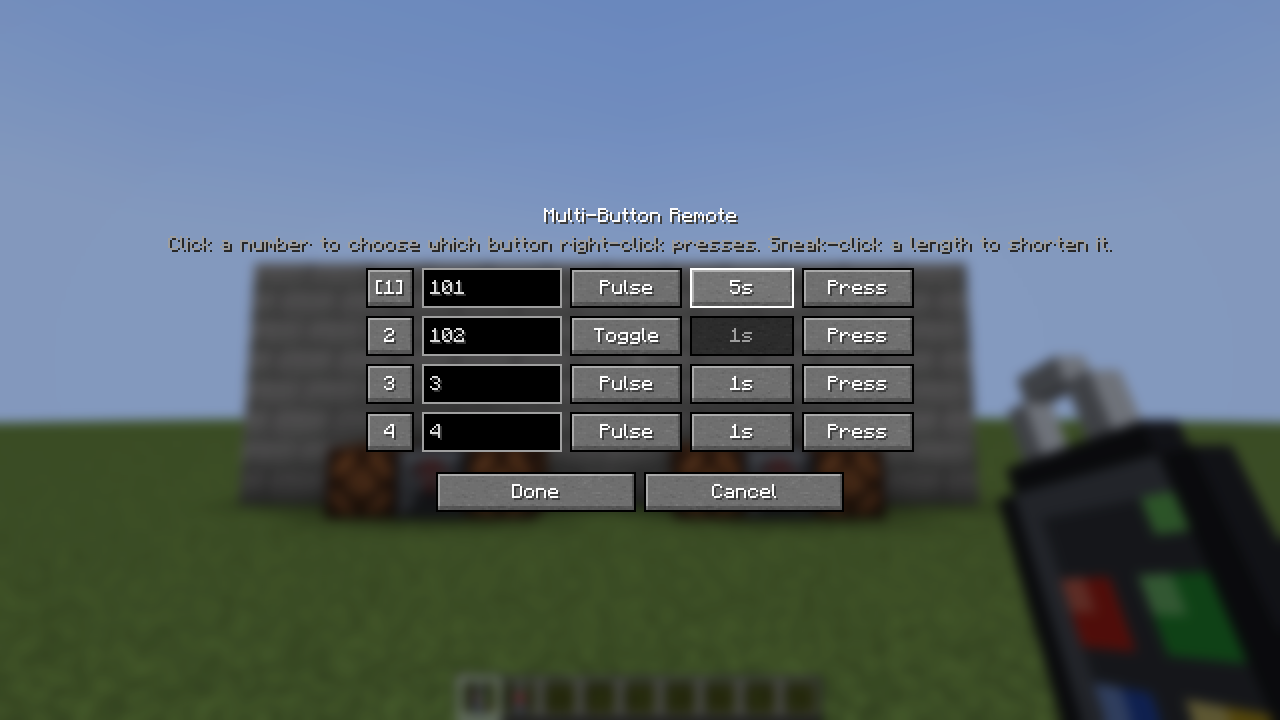
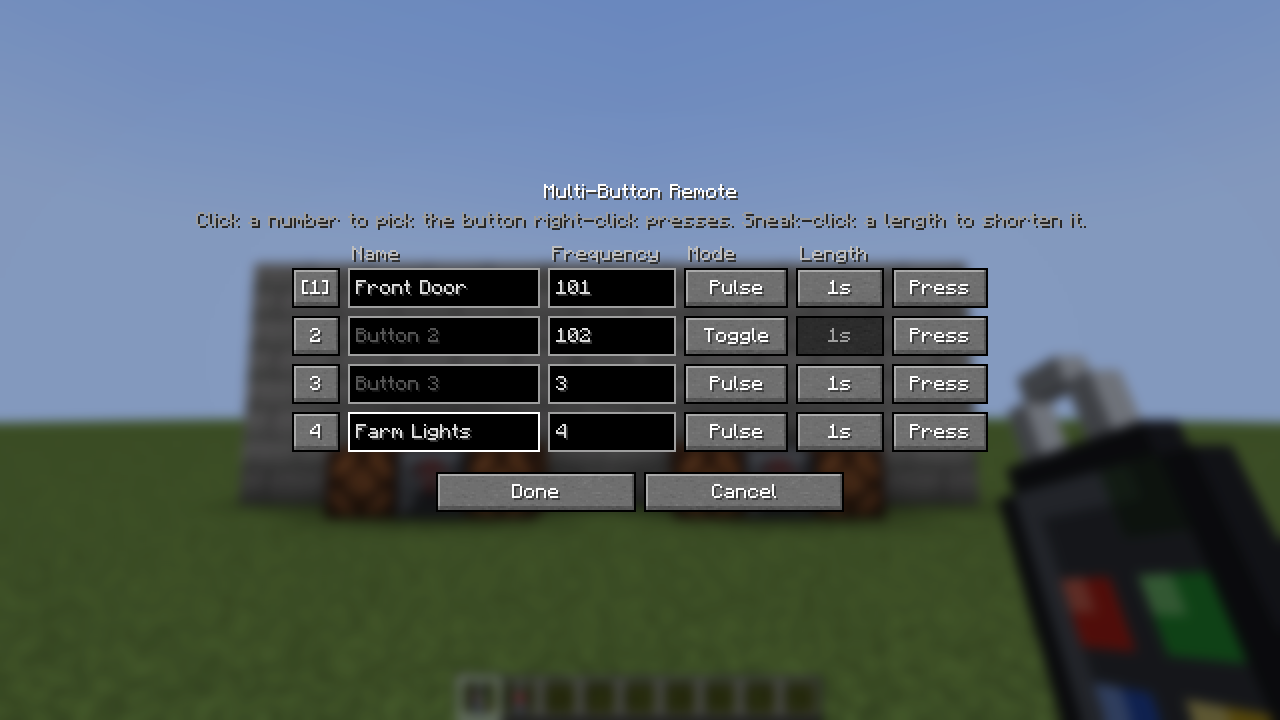
Add button names to the Multi-Button Remote (v0.9.0)
Each button can have a name of up to 24 characters, like "Front Door". It
shows in the tooltip, press and selection messages, and the copy message.
Unnamed buttons show as "Button N". The keypad gains a Name column (with
"Button N" placeholders) and column headings.

Names are an optional field in saved data, so older remotes load unnamed.
They're cleaned in the record constructor (no colour codes or control
characters, trimmed, capped) and synced with the rest of the button.

Four new GameTests (cleaning, labels, save/sync including the old format,
copying keeps the name). README, design notes and screenshots updated.

Claude-Session: https://claude.ai/code/session_01UW3Tnrvvec4MPvc8LgVniH

Changed region(s): [[0.125, 0.2444, 0.875, 0.6417], [0.875, 0.6417, 0.9375, 0.7639]]

diff --git a/src/main/java/com/reiko/signaltower/gametest/SignalTowerGameTests.java b/src/main/java/com/reiko/signaltower/gametest/SignalTowerGameTests.java
@@ -38,6 +38,10 @@ import net.neoforged.neoforge.gametest.PrefixGameTestTemplate;
 
 import java.util.List;
 
+import com.mojang.serialization.JsonOps;
+import io.netty.buffer.Unpooled;
+import net.minecraft.network.chat.contents.TranslatableContents;
+
 /**
  * Automated in-game tests. Run them with {@code ./gradlew runGameTestServer}.
  * They only load in dev runs, where {@code neoforge.enabledGameTestNamespaces} includes this mod.
@@ -738,5 +742,74 @@ public final class SignalTowerGameTests {
                 .thenExecute(() -> pressRemote(helper, player))
                 .thenExecute(() -> assertLight(helper, player, false))
                 .thenSucceed();
+    }
+
+    // ---- Button names ----
+
+    /** Names lose colour codes, control characters and surrounding spaces, and are cut to 24 characters. */
+    @GameTest(template = PLATFORM)
+    public static void buttonNamesAreCleaned(GameTestHelper helper) {
+        String cleaned = RemoteButtons.cleanName("  \u00a7cFront\tDoor  ");
+        check(!cleaned.contains("\u00a7"), "Colour codes should be removed, got '" + cleaned + "'");
+        check(!cleaned.contains("\t"), "Control characters should be removed, got '" + cleaned + "'");
+        check(!cleaned.startsWith(" ") && !cleaned.endsWith(" "), "Spaces around the name should go, got '" + cleaned + "'");
+        check(RemoteButtons.cleanName("A very long name for a remote button indeed").length() <= RemoteButtons.MAX_NAME_LENGTH,
+                "Names should be cut to " + RemoteButtons.MAX_NAME_LENGTH + " characters");
+        check(RemoteButtons.cleanName(null).isEmpty(), "A missing name should become empty");
+        check(new RemoteButtons.Button(1, false, 20, "   ").name().isEmpty(), "A blank name means unnamed");
+        helper.succeed();
+    }
+
+    /** A named button shows its name; an unnamed one shows "Button N". */
+    @GameTest(template = PLATFORM)
+    public static void buttonLabelsUseNames(GameTestHelper helper) {
+        check(new RemoteButtons.Button(1, false, 20, "Front Door").label(0).getString().equals("Front Door"),
+                "A named button should be labelled with its name");
+        var unnamed = new RemoteButtons.Button(1, false).label(1);
+        check(unnamed.getContents() instanceof TranslatableContents t
+                        && t.getKey().endsWith(".remote_button_default_name") && Integer.valueOf(2).equals(t.getArgs()[0]),
+                "An unnamed second button should be labelled 'Button 2'");
+        helper.succeed();
+    }
+
+    /** Names survive saving and network sync, and remotes saved before names existed still load. */
+    @GameTest(template = PLATFORM)
+    public static void buttonNamesSurviveSaveAndSync(GameTestHelper helper) {
+        RemoteButtons original = RemoteButtons.DEFAULT
+                .withButton(0, new RemoteButtons.Button(101, false, 10, "Front Door"))
+                .withButton(3, new RemoteButtons.Button(404, true, 20, "Farm Lights"))
+                .withSelected(3);
+
+        var saved = RemoteButtons.CODEC.encodeStart(JsonOps.INSTANCE, original).getOrThrow();
+        RemoteButtons loaded = RemoteButtons.CODEC.parse(JsonOps.INSTANCE, saved).getOrThrow();
+        check(loaded.equals(original), "Saving and loading changed the buttons: " + loaded);
+
+        var buffer = Unpooled.buffer();
+        RemoteButtons.STREAM_CODEC.encode(buffer, original);
+        RemoteButtons synced = RemoteButtons.STREAM_CODEC.decode(buffer);
+        check(synced.equals(original), "Network sync changed the buttons: " + synced);
+
+        var oldFormat = com.google.gson.JsonParser.parseString(
+                "{\"buttons\":[{\"frequency\":7},{\"frequency\":8,\"toggle\":true}],\"selected\":1}");
+        RemoteButtons old = RemoteButtons.CODEC.parse(JsonOps.INSTANCE, oldFormat).getOrThrow();
+        check(old.button(0).frequency() == 7 && old.button(0).name().isEmpty(), "Old remotes should load with unnamed buttons");
+        check(old.button(1).toggle() && old.selected() == 1, "Old remotes should keep their settings");
+        helper.succeed();
+    }
+
+    /** Copying a frequency into a named button keeps its name. */
+    @GameTest(template = PLATFORM)
+    public static void copyingFrequencyKeepsButtonName(GameTestHelper helper) {
+        BlockPos tx = new BlockPos(3, 1, 1);
+        place(helper, tx, ModRegistry.RADIO_TRANSMITTER.get(), 888);
+        Player player = playerWithMultiRemote(helper, RemoteButtons.DEFAULT
+                .withButton(1, new RemoteButtons.Button(2, false, 20, "Garage")).withSelected(1));
+        player.setShiftKeyDown(true);
+        useTunerOn(helper, player, tx);
+
+        RemoteButtons.Button button = MultiRemoteItem.getButtons(player.getMainHandItem()).button(1);
+        check(button.frequency() == 888, "Frequency should be copied, got " + button.frequency());
+        check(button.name().equals("Garage"), "The name should be kept, got '" + button.name() + "'");
+        helper.succeed();
     }
 }

diff --git a/src/main/java/com/reiko/signaltower/client/MultiRemoteScreen.java b/src/main/java/com/reiko/signaltower/client/MultiRemoteScreen.java
@@ -17,12 +17,13 @@ import net.neoforged.neoforge.network.PacketDistributor;
 
 /**
  * The Multi-Button Remote's keypad. Each row is one button: click its number to make it the one
- * right-click presses, type its frequency, switch its mode, set its pulse length (click for longer,
- * sneak-click for shorter), or press it right now. Pressing also saves the settings. Done saves
+ * right-click presses, give it a name, type its frequency, switch its mode, set its pulse length
+ * (click for longer, sneak-click for shorter), or press it right now. Pressing also saves the settings. Done saves
  * and closes, Cancel throws away unsaved edits.
  */
 public class MultiRemoteScreen extends Screen {
     private static final String KEY = "screen." + SignalTower.MOD_ID + ".multi_remote";
+    private static final int COLUMNS_WIDTH = 348;
 
     private final InteractionHand hand;
     private RemoteButtons buttons;
@@ -41,8 +42,8 @@ public class MultiRemoteScreen extends Screen {
         int centerX = width / 2;
         int top = height / 2 - 46;
 
-        // Columns: [#] [frequency] [mode] [pulse length] [Press], 274 wide in total.
-        int left = centerX - 137;
+        // Columns: [#] [name] [frequency] [mode] [pulse length] [Press], 348 wide in total.
+        int left = centerX - COLUMNS_WIDTH / 2;
         for (int i = 0; i < RemoteButtons.COUNT; i++) {
             final int index = i;
             int y = top + i * 24;
@@ -52,7 +53,14 @@ public class MultiRemoteScreen extends Screen {
                 refreshLabels();
             }).bounds(left, y, 24, 20).build());
 
-            EditBox box = new EditBox(font, left + 28, y, 70, 20, Component.translatable(KEY + ".frequency", i + 1));
+            EditBox nameBox = new EditBox(font, left + 28, y, 96, 20, Component.translatable(KEY + ".name", i + 1));
+            nameBox.setMaxLength(RemoteButtons.MAX_NAME_LENGTH);
+            nameBox.setValue(buttons.button(i).name());
+            nameBox.setHint(buttons.button(i).withName("").label(i).copy().withStyle(net.minecraft.ChatFormatting.DARK_GRAY));
+            nameBox.setResponder(text -> buttons = buttons.withButton(index, buttons.button(index).withName(text)));
+            addRenderableWidget(nameBox);
+
+            EditBox box = new EditBox(font, left + 128, y, 64, 20, Component.translatable(KEY + ".frequency", i + 1));
             box.setMaxLength(Frequency.MAX_DIGITS);
             box.setFilter(text -> text.chars().allMatch(Character::isDigit));
             box.setValue(Integer.toString(buttons.button(i).frequency()));
@@ -70,16 +78,16 @@ public class MultiRemoteScreen extends Screen {
                 RemoteButtons.Button old = buttons.button(index);
                 buttons = buttons.withButton(index, old.withToggle(!old.toggle()));
                 refreshLabels();
-            }).bounds(left + 102, y, 56, 20).build());
+            }).bounds(left + 196, y, 52, 20).build());
 
             lengthButtons[i] = addRenderableWidget(Button.builder(Component.empty(), b -> {
                 RemoteButtons.Button old = buttons.button(index);
                 buttons = buttons.withButton(index, old.withPulseTicks(PulseLength.next(old.pulseTicks(), Screen.hasShiftDown())));
                 refreshLabels();
-            }).bounds(left + 162, y, 52, 20).build());
+            }).bounds(left + 252, y, 44, 20).build());
 
             addRenderableWidget(Button.builder(Component.translatable(KEY + ".press"), b -> send(index))
-                    .bounds(left + 218, y, 56, 20).build());
+                    .bounds(left + 300, y, 48, 20).build());
         }
         refreshLabels();
 
@@ -117,8 +125,15 @@ public class MultiRemoteScreen extends Screen {
         super.render(graphics, mouseX, mouseY, partialTick);
         int centerX = width / 2;
         int top = height / 2 - 46;
-        graphics.drawCenteredString(font, title, centerX, top - 30, 0xFFFFFF);
-        graphics.drawCenteredString(font, Component.translatable(KEY + ".hint"), centerX, top - 16, 0xA0A0A0);
+        graphics.drawCenteredString(font, title, centerX, top - 42, 0xFFFFFF);
+        graphics.drawCenteredString(font, Component.translatable(KEY + ".hint"), centerX, top - 28, 0xA0A0A0);
+        // Column headings
+        int left = centerX - COLUMNS_WIDTH / 2;
+        int headingY = top - 11;
+        graphics.drawString(font, Component.translatable(KEY + ".heading_name"), left + 30, headingY, 0xC0C0C0);
+        graphics.drawString(font, Component.translatable(KEY + ".heading_frequency"), left + 130, headingY, 0xC0C0C0);
+        graphics.drawString(font, Component.translatable(KEY + ".heading_mode"), left + 198, headingY, 0xC0C0C0);
+        graphics.drawString(font, Component.translatable(KEY + ".heading_length"), left + 254, headingY, 0xC0C0C0);
     }
 
     @Override

diff --git a/src/main/java/com/reiko/signaltower/item/RemoteButtons.java b/src/main/java/com/reiko/signaltower/item/RemoteButtons.java
@@ -2,10 +2,13 @@ package com.reiko.signaltower.item;
 
 import com.mojang.serialization.Codec;
 import com.mojang.serialization.codecs.RecordCodecBuilder;
+import com.reiko.signaltower.SignalTower;
 import com.reiko.signaltower.radio.Frequency;
 import io.netty.buffer.ByteBuf;
 import net.minecraft.network.codec.ByteBufCodecs;
+import net.minecraft.network.chat.Component;
 import net.minecraft.network.codec.StreamCodec;
+import net.minecraft.util.StringUtil;
 
 import java.util.ArrayList;
 import java.util.List;
@@ -17,44 +20,78 @@ import java.util.List;
 public record RemoteButtons(List<Button> buttons, int selected) {
     public static final int COUNT = 4;
 
+    /** Longest button name. */
+    public static final int MAX_NAME_LENGTH = 24;
+
     /**
-     * One button: a frequency, whether it toggles (true) or pulses (false), and how long its pulse
-     * lasts in ticks.
+     * One button: a frequency, whether it toggles (true) or pulses (false), how long its pulse lasts
+     * in ticks, and an optional name ("" means unnamed, shown as "Button 1" etc).
      */
-    public record Button(int frequency, boolean toggle, int pulseTicks) {
+    public record Button(int frequency, boolean toggle, int pulseTicks, String name) {
         public static final Codec<Button> CODEC = RecordCodecBuilder.create(instance -> instance.group(
                 Codec.intRange(Frequency.MIN, Frequency.MAX).fieldOf("frequency").forGetter(Button::frequency),
                 Codec.BOOL.optionalFieldOf("toggle", false).forGetter(Button::toggle),
-                Codec.INT.optionalFieldOf("pulse_ticks", PulseLength.DEFAULT_TICKS).forGetter(Button::pulseTicks)
+                Codec.INT.optionalFieldOf("pulse_ticks", PulseLength.DEFAULT_TICKS).forGetter(Button::pulseTicks),
+                Codec.STRING.optionalFieldOf("name", "").forGetter(Button::name)
         ).apply(instance, Button::new));
 
         public static final StreamCodec<ByteBuf, Button> STREAM_CODEC = StreamCodec.composite(
                 ByteBufCodecs.VAR_INT, Button::frequency,
                 ByteBufCodecs.BOOL, Button::toggle,
                 ByteBufCodecs.VAR_INT, Button::pulseTicks,
+                ByteBufCodecs.stringUtf8(MAX_NAME_LENGTH * 4), Button::name,
                 Button::new);
 
         public Button {
             frequency = Frequency.clamp(frequency);
             pulseTicks = PulseLength.clamp(pulseTicks);
+            name = cleanName(name);
         }
 
-        /** A button with the default 1-second pulse. */
+        /** A button with the default 1-second pulse and no name. */
         public Button(int frequency, boolean toggle) {
-            this(frequency, toggle, PulseLength.DEFAULT_TICKS);
+            this(frequency, toggle, PulseLength.DEFAULT_TICKS, "");
+        }
+
+        /** An unnamed button. */
+        public Button(int frequency, boolean toggle, int pulseTicks) {
+            this(frequency, toggle, pulseTicks, "");
         }
 
         public Button withFrequency(int newFrequency) {
-            return new Button(newFrequency, toggle, pulseTicks);
+            return new Button(newFrequency, toggle, pulseTicks, name);
         }
 
         public Button withToggle(boolean newToggle) {
-            return new Button(frequency, newToggle, pulseTicks);
+            return new Button(frequency, newToggle, pulseTicks, name);
         }
 
         public Button withPulseTicks(int newPulseTicks) {
-            return new Button(frequency, toggle, newPulseTicks);
+            return new Button(frequency, toggle, newPulseTicks, name);
         }
+
+        public Button withName(String newName) {
+            return new Button(frequency, toggle, pulseTicks, newName);
+        }
+
+        /** The button's name, or "Button N" if it has none. {@code index} is 0-3. */
+        public Component label(int index) {
+            return name.isEmpty()
+                    ? Component.translatable("tooltip." + SignalTower.MOD_ID + ".remote_button_default_name", index + 1)
+                    : Component.literal(name);
+        }
+    }
+
+    /**
+     * Keeps names safe to show anywhere: no colour codes or control characters, no leading or
+     * trailing spaces, and at most {@link #MAX_NAME_LENGTH} characters.
+     */
+    public static String cleanName(String name) {
+        if (name == null) {
+            return "";
+        }
+        String clean = StringUtil.filterText(name).strip();
+        return clean.length() > MAX_NAME_LENGTH ? clean.substring(0, MAX_NAME_LENGTH).strip() : clean;
     }
 
     public static final Codec<RemoteButtons> CODEC = RecordCodecBuilder.create(instance -> instance.group(

diff --git a/src/main/java/com/reiko/signaltower/item/MultiRemoteItem.java b/src/main/java/com/reiko/signaltower/item/MultiRemoteItem.java
@@ -51,7 +51,7 @@ public class MultiRemoteItem extends Item {
     public static void pressButton(ServerLevel level, Player player, ItemStack stack, int index) {
         RemoteButtons.Button button = getButtons(stack).button(index);
         Component result = RemoteControlItem.sendSignal(level, player, stack, button.frequency(), button.toggle(), button.pulseTicks());
-        player.displayClientMessage(Component.translatable(KEY + "remote_button", index + 1, result), true);
+        player.displayClientMessage(Component.translatable(KEY + "remote_button", button.label(index), result), true);
     }
 
     /** Moves the selection by {@code delta} buttons (wrapping around) and says which one is picked. */
@@ -64,7 +64,7 @@ public class MultiRemoteItem extends Item {
 
     private static Component describeSelected(RemoteButtons buttons) {
         RemoteButtons.Button button = buttons.selectedButton();
-        return Component.translatable(KEY + "remote_button_selected", buttons.selected() + 1, button.frequency(),
+        return Component.translatable(KEY + "remote_button_selected", button.label(buttons.selected()), button.frequency(),
                 RemoteControlItem.describeMode(button.toggle(), button.pulseTicks())).withStyle(ChatFormatting.AQUA);
     }
 
@@ -90,7 +90,7 @@ public class MultiRemoteItem extends Item {
                 RemoteButtons.Button old = buttons.selectedButton();
                 setButtons(stack, buttons.withButton(buttons.selected(), old.withFrequency(radio.getFrequency())));
                 player.displayClientMessage(Component.translatable(KEY + "frequency_copied_button",
-                        radio.getFrequency(), buttons.selected() + 1), true);
+                        radio.getFrequency(), old.label(buttons.selected())), true);
                 level.playSound(null, pos, SoundEvents.AMETHYST_BLOCK_CHIME, SoundSource.PLAYERS, 1.0F, 0.8F);
             }
             return InteractionResult.sidedSuccess(level.isClientSide);
@@ -122,7 +122,7 @@ public class MultiRemoteItem extends Item {
             RemoteButtons.Button button = buttons.button(i);
             boolean selected = i == buttons.selected();
             tooltip.add(Component.translatable(prefix + (selected ? "remote_button_line_selected" : "remote_button_line"),
-                    i + 1, button.frequency(), RemoteControlItem.describeMode(button.toggle(), button.pulseTicks()))
+                    button.label(i), button.frequency(), RemoteControlItem.describeMode(button.toggle(), button.pulseTicks()))
                     .withStyle(selected ? ChatFormatting.AQUA : ChatFormatting.DARK_AQUA));
         }
         tooltip.add(Component.translatable(prefix + "multi_remote_use").withStyle(ChatFormatting.GRAY));

diff --git a/tools/make_data.py b/tools/make_data.py
@@ -298,18 +298,24 @@ write(ASSETS / "lang" / "en_us.json", {
     f"item.{MOD}.frequency_tuner": "Frequency Tuner",
     f"item.{MOD}.remote_control": "Remote Control",
     f"item.{MOD}.multi_remote": "Multi-Button Remote",
-    f"tooltip.{MOD}.remote_button_line": "Button %s: frequency %s, %s",
-    f"tooltip.{MOD}.remote_button_line_selected": "\u00bb Button %s: frequency %s, %s",
+    f"tooltip.{MOD}.remote_button_line": "%s: frequency %s, %s",
+    f"tooltip.{MOD}.remote_button_line_selected": "\u00bb %s: frequency %s, %s",
+    f"tooltip.{MOD}.remote_button_default_name": "Button %s",
     f"tooltip.{MOD}.multi_remote_use": "Right-click to press the selected button",
     f"tooltip.{MOD}.multi_remote_select": "Sneak + scroll to choose the selected button",
     f"tooltip.{MOD}.multi_remote_configure": "Sneak + right-click the air to open the keypad",
     f"tooltip.{MOD}.multi_remote_copy": "Sneak + right-click a transmitter or receiver to copy its frequency into the selected button",
-    f"message.{MOD}.remote_button": "Button %s: %s",
-    f"message.{MOD}.remote_button_selected": "Button %s selected (frequency %s, %s)",
-    f"message.{MOD}.frequency_copied_button": "Copied frequency %s to button %s",
+    f"message.{MOD}.remote_button": "%s: %s",
+    f"message.{MOD}.remote_button_selected": "%s selected (frequency %s, %s)",
+    f"message.{MOD}.frequency_copied_button": "Copied frequency %s to %s",
     f"screen.{MOD}.multi_remote.frequency": "Button %s frequency",
     f"screen.{MOD}.multi_remote.press": "Press",
-    f"screen.{MOD}.multi_remote.hint": "Click a number to choose which button right-click presses. Sneak-click a length to shorten it.",
+    f"screen.{MOD}.multi_remote.hint": "Click a number to pick the button right-click presses. Sneak-click a length to shorten it.",
+    f"screen.{MOD}.multi_remote.name": "Button %s name",
+    f"screen.{MOD}.multi_remote.heading_name": "Name",
+    f"screen.{MOD}.multi_remote.heading_frequency": "Frequency",
+    f"screen.{MOD}.multi_remote.heading_mode": "Mode",
+    f"screen.{MOD}.multi_remote.heading_length": "Length",
     f"tooltip.{MOD}.remote_mode": "Mode: %s",
     f"tooltip.{MOD}.remote_mode_pulse": "Pulse",
     f"tooltip.{MOD}.remote_mode_toggle": "Toggle",

diff --git a/README.md b/README.md
@@ -53,11 +53,14 @@ A Minecraft **1.21.1 NeoForge** mod that adds radio towers for redstone. Put a t
 **Multi-Button Remote:**
 - Right-click: press the **selected** button.
 - Sneak + scroll: choose the selected button. Your hotbar slot doesn't move.
-- Sneak + right-click the air: open the keypad. From there you can press any button, set each button's frequency, Pulse/Toggle mode and pulse length, and click a button's number to make it the selected one.
+- Sneak + right-click the air: open the keypad. From there you can press any button, give each button a **name** (like "Front Door"), set its frequency, Pulse/Toggle mode and pulse length, and click a button's number to make it the selected one.
+- Names show up everywhere: the tooltip, the press message ("Front Door: 1s pulse sent…") and the selection message ("Farm Lights selected…"). Unnamed buttons show as "Button 1" to "Button 4". Names can be up to 24 characters.
 - Sneak + right-click a transmitter or receiver: copy its frequency into the selected button.
 - The tooltip lists all 4 buttons, with the selected one marked ».
 
 ![The Multi-Button Remote keypad](docs/images/multi-remote-keypad.png)
+
+![The Multi-Button Remote's tooltip with named buttons](docs/images/multi-remote-tooltip.png)
 
 **Other details:**
 - Both receivers are tuned with the Frequency Tuner and act the same; pick the full block or the compact one depending on how much room you have.
@@ -204,7 +207,11 @@ The `tools/` scripts are how the textures and JSON files were generated. You can
 24. a remote's light goes green when a receiver in range heard the press;
 25. it goes red when receivers are only out of range or on another frequency;
 26. a re-tuned receiver stops counting for its old frequency;
-27. a broken receiver stops counting straight away.
+27. a broken receiver stops counting straight away;
+28. button names lose colour codes, control characters and extra spaces, and are cut to 24 characters;
+29. named buttons are labelled with their name, unnamed ones as "Button N";
+30. names survive saving and network sync, and remotes saved before names existed still load;
+31. copying a frequency into a named button keeps its name.
 
 ## License
 

diff --git a/docs/DESIGN.md b/docs/DESIGN.md
@@ -42,6 +42,9 @@
   - On a press, `sendSignal` counts receivers within reach and sets a `remote_light` component (heard + show-until time). It's synced but never saved.
   - The client registers an item property `reikos_signal_tower:light` (0 off, 0.5 green, 1 red), and the item models' overrides pick the matching texture.
   - Both remotes override `shouldCauseReequipAnimation`, so the light changing doesn't replay the pull-out animation.
+- **Button names:**
+  - Each `RemoteButtons.Button` has a `name` (optional in saved data, so older remotes load unnamed). The record constructor cleans it with `StringUtil.filterText`, strips spaces and cuts it to 24 characters, on the server and the client alike.
+  - `Button.label(index)` gives the name, or "Button N", and every message and tooltip uses it.
 - **Input:** a transmitter's input is the strongest of `getBestNeighborSignal` at the transmitter and at every mast in the unbroken column directly below it.
 
 ## How it works
@@ -59,7 +62,7 @@
 
 ## Verified
 
-- 27 GameTests pass (`./gradlew runGameTestServer`). They cover linking, signal strength, frequency isolation, reach growing with height, masts carrying the signal, the tuner's tune and copy actions, and drops keeping their frequency.
+- 31 GameTests pass (`./gradlew runGameTestServer`). They cover linking, signal strength, frequency isolation, reach growing with height, masts carrying the signal, the tuner's tune and copy actions, and drops keeping their frequency.
 - In the real client:
   - models, the glowing warning light and items render correctly;
   - typing a frequency into the Tuner screen updates the held tuner on the server;
@@ -68,6 +71,7 @@
 
 ## History
 
+- **v0.9.0:** button names on the Multi-Button Remote.
 - **v0.8.0:** signal light on both remotes.
 - **v0.7.0:** pulse length setting for both remotes.
 - **v0.6.0:** added the Multi-Button Remote.
